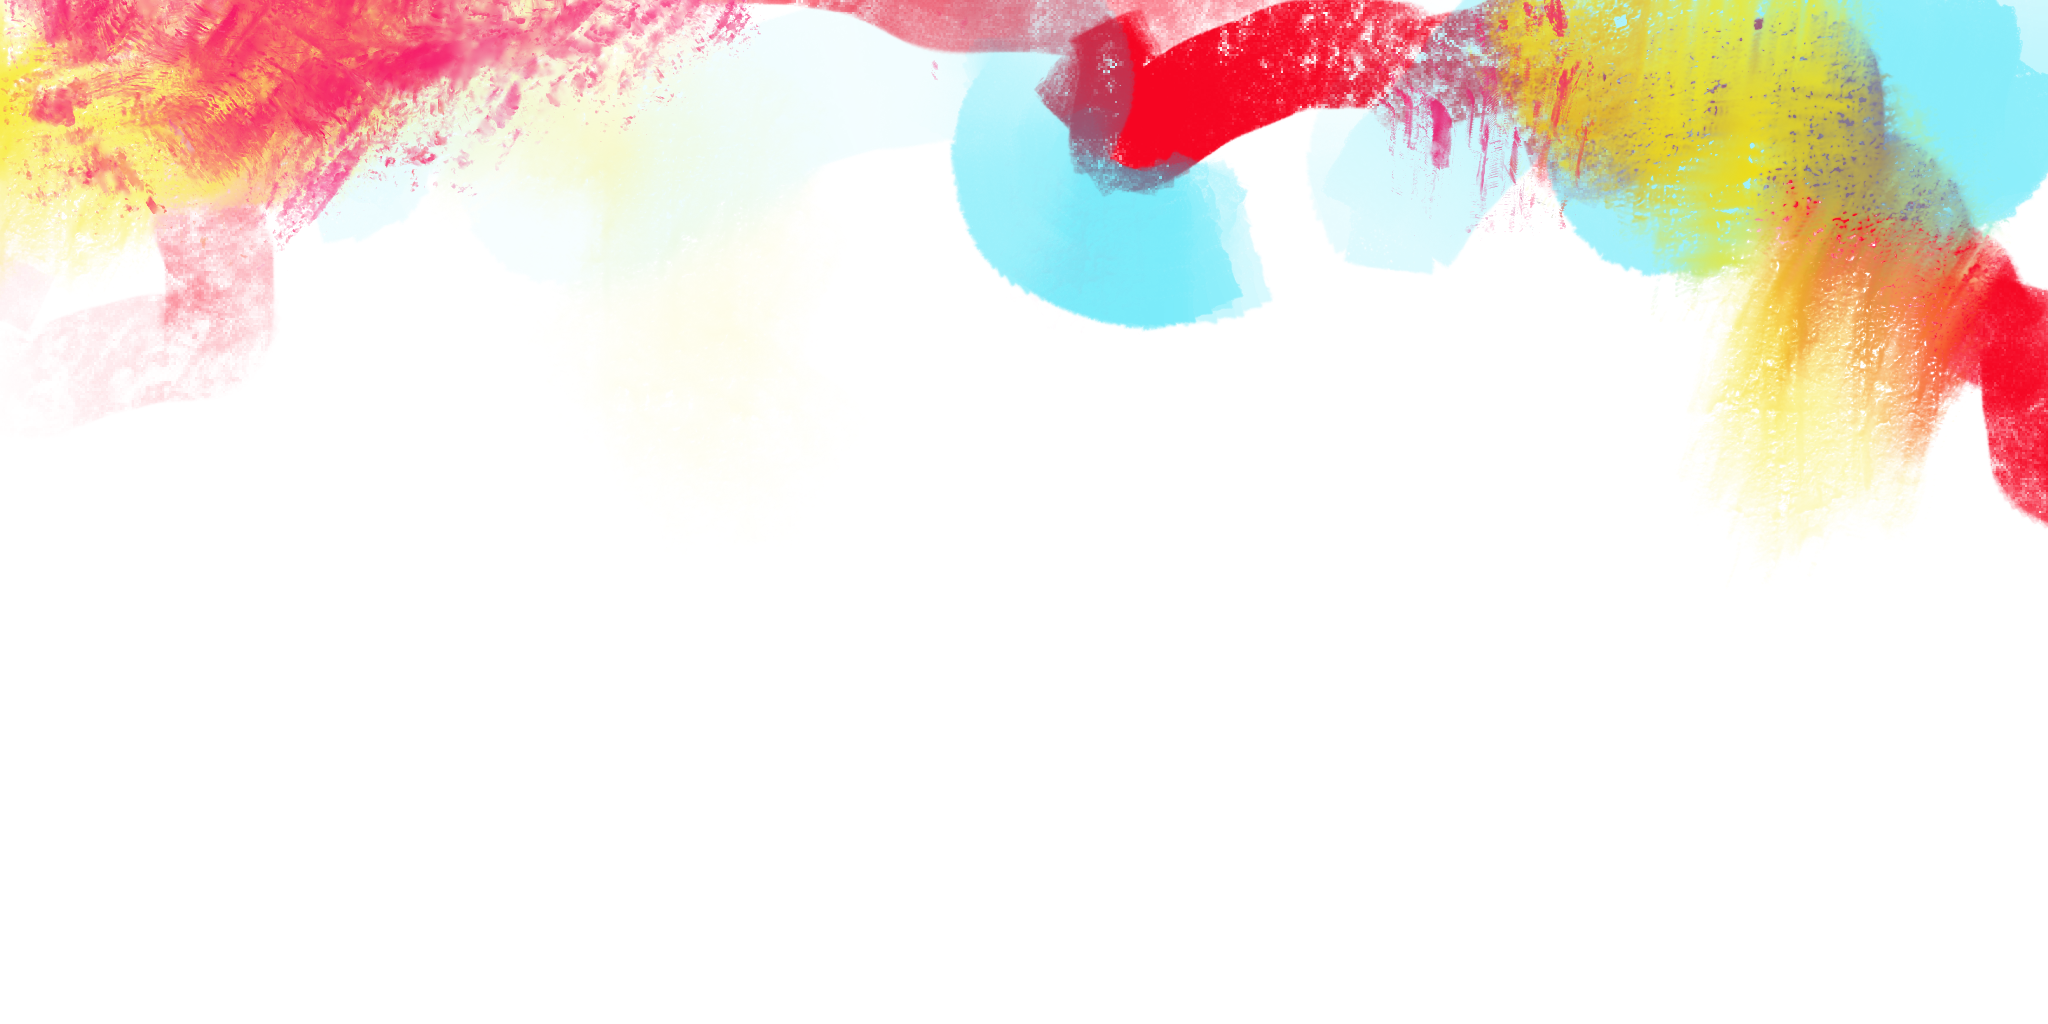
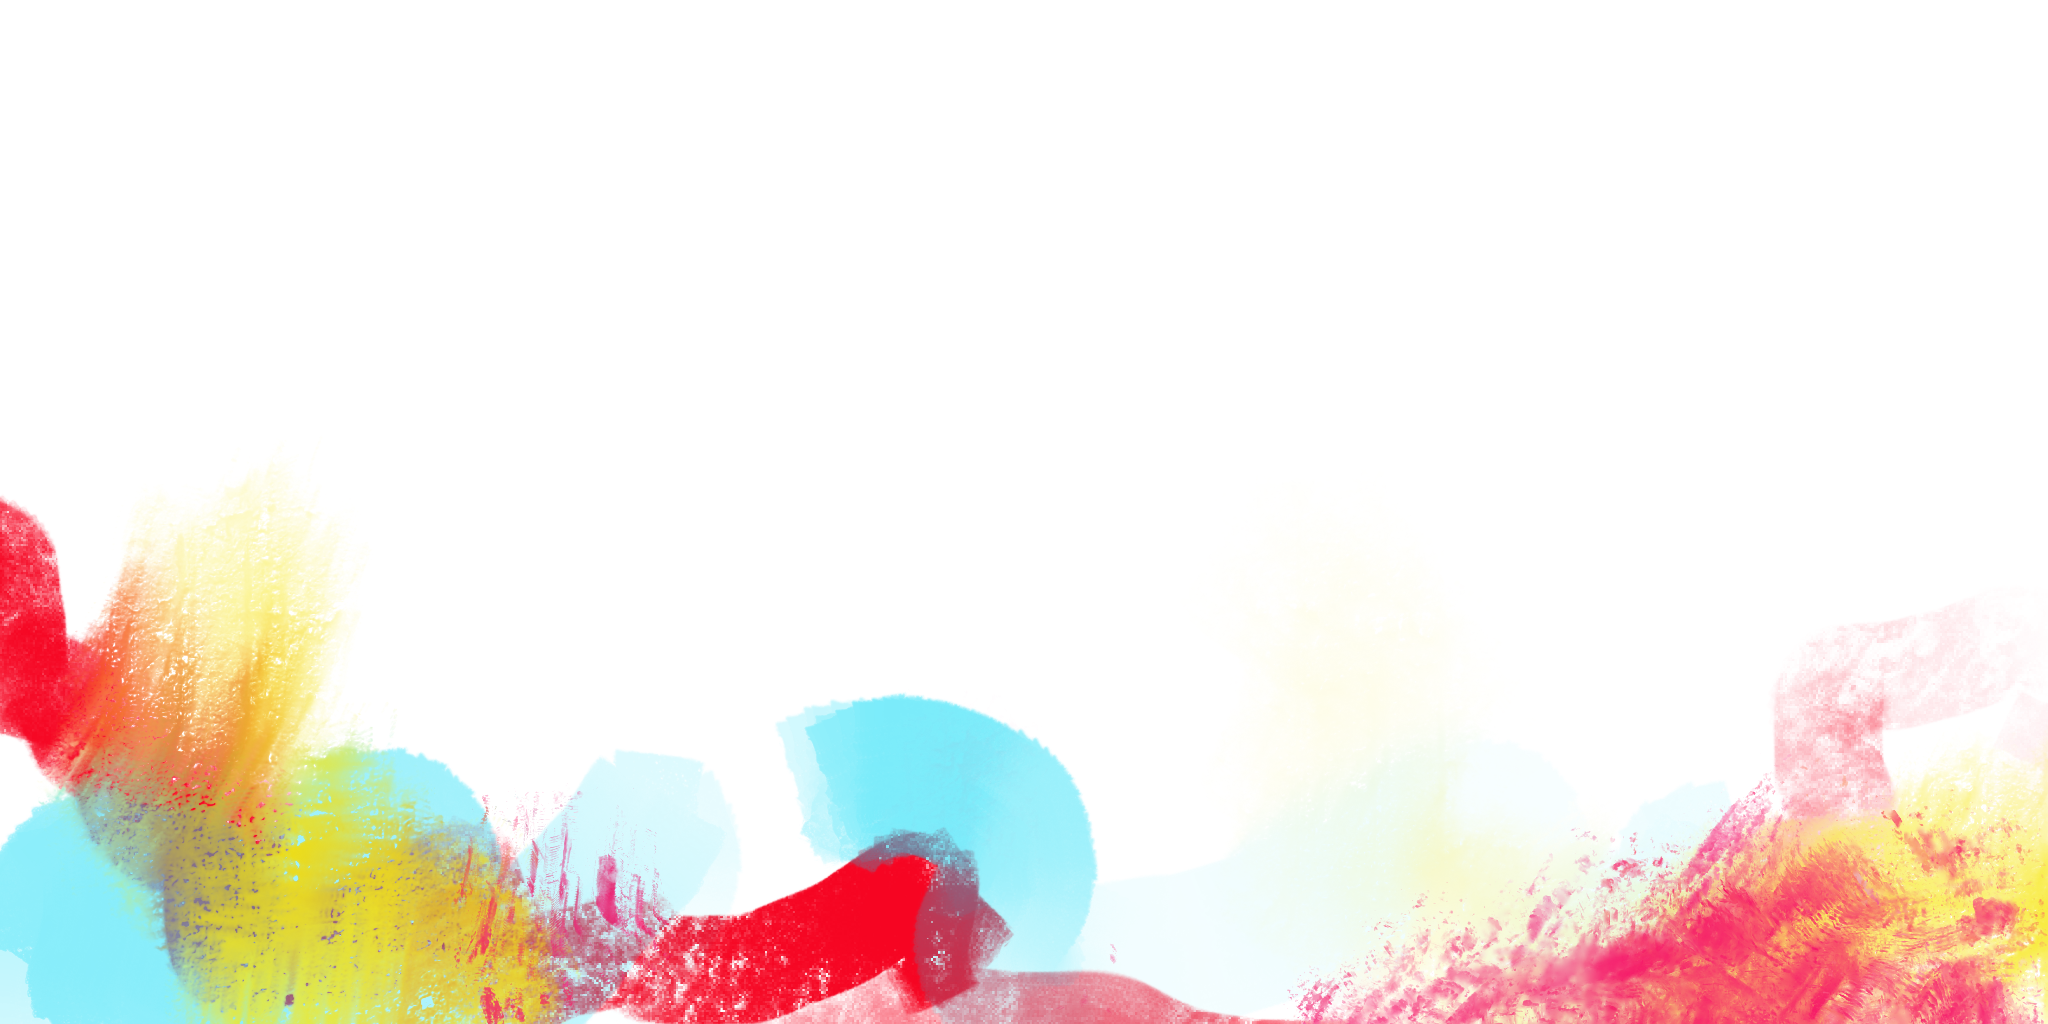
bg image changes

diff --git a/css/creative.min.css b/css/creative.min.css
@@ -2,4 +2,4 @@
  * Start Bootstrap - Creative v5.0.1 (https://startbootstrap.com/template-overviews/creative)
  * Copyright 2013-2018 Start Bootstrap
  * Licensed under MIT (https://github.com/BlackrockDigital/startbootstrap-creative/blob/master/LICENSE)
- */section{background-color:#fff}body,html{width:100%;height:100%}body{font-family:'Josephin Sans','Helvetica Neue',Arial,sans-serif}hr{max-width:50px;border-width:3px;border-color:#fff}hr.light{border-color:#fff}a{color:#fc314e;-webkit-transition:all .2s;transition:all .2s}a:hover{color:#fc304e}h1,h2,h3,h4,h5,h6{font-family:'Josephin Sans','Helvetica Neue',Arial,sans-serif;text-transform:uppercase}h2{font-size:3rem!important}.bg-primary{background-color:#fc314e!important}.bg-dark{background-color:#212529!important}.text-faded{color:rgba(255,255,255,.7)}section{padding:8rem 0}.section-heading{margin-top:0}::-moz-selection{color:#fff;background:#212529;text-shadow:none}::selection{color:#fff;background:#212529;text-shadow:none}img::-moz-selection{color:#fff;background:0 0}img::selection{color:#fff;background:0 0}img::-moz-selection{color:#fff;background:0 0}#contact{padding-top:10rem;padding-bottom:calc(10rem - 56px);background-image:url(../img/footer-test1.png);background-position:center bottom;margin-top:-25px;background-color:#fff}#art{padding-top:10rem;padding-bottom:calc(10rem - 56px);background-image:url(../img/bg_test2.png);background-position:center top;background-size:100%;margin-top:-104px;background-repeat:no-repeat}#design{padding-top:10rem;padding-bottom:calc(10rem - 56px);background-image:url(../img/art2.png);margin-top:-25px;background-size:100% 100%;background-color:#fff;background-repeat:no-repeat}#mainNav{border-bottom:1px solid rgba(33,37,41,.1);background-color:#fff;font-family:'Josephin Sans','Helvetica Neue',Arial,sans-serif;-webkit-transition:all .2s;transition:all .2s}#mainNav .navbar-brand{font-weight:700;text-transform:uppercase;color:#000;font-family:'Josephin Sans','Helvetica Neue',Arial,sans-serif}#mainNav .navbar-brand:focus,#mainNav .navbar-brand:hover{color:#fff}#mainNav .navbar-nav>li.nav-item>a.nav-link,#mainNav .navbar-nav>li.nav-item>a.nav-link:focus{font-size:.9rem;font-weight:700;text-transform:uppercase;color:#212529}#mainNav .navbar-nav>li.nav-item>a.nav-link:focus:hover,#mainNav .navbar-nav>li.nav-item>a.nav-link:hover{color:#fff}#mainNav .navbar-nav>li.nav-item>a.nav-link.active,#mainNav .navbar-nav>li.nav-item>a.nav-link:focus.active{color:#fc314e!important;background-color:transparent}#mainNav .navbar-nav>li.nav-item>a.nav-link.active:hover,#mainNav .navbar-nav>li.nav-item>a.nav-link:focus.active:hover{background-color:transparent}@media (min-width:992px){#mainNav{border-color:transparent;background-color:transparent}#mainNav .navbar-brand{color:rgba(0,0,0,.7)}#mainNav .navbar-brand:focus,#mainNav .navbar-brand:hover{color:#000}#mainNav .navbar-nav>li.nav-item>a.nav-link{padding:.5rem 1rem}#mainNav .navbar-nav>li.nav-item>a.nav-link,#mainNav .navbar-nav>li.nav-item>a.nav-link:focus{color:rgba(0,0,0,.7)}#mainNav .navbar-nav>li.nav-item>a.nav-link:focus:hover,#mainNav .navbar-nav>li.nav-item>a.nav-link:hover{color:#000}#mainNav.navbar-shrink{border-bottom:1px solid rgba(33,37,41,.1);background-color:#fff}#mainNav.navbar-shrink .navbar-brand{color:#fc314e}#mainNav.navbar-shrink .navbar-brand:focus,#mainNav.navbar-shrink .navbar-brand:hover{color:#fc304e}#mainNav.navbar-shrink .navbar-nav>li.nav-item>a.nav-link,#mainNav.navbar-shrink .navbar-nav>li.nav-item>a.nav-link:focus{color:#212529}#mainNav.navbar-shrink .navbar-nav>li.nav-item>a.nav-link:focus:hover,#mainNav.navbar-shrink .navbar-nav>li.nav-item>a.nav-link:hover{color:#fc314e}}header.masthead{padding-top:10rem;padding-bottom:calc(10rem - 56px);background-image:url(../img/bg_test1.png);background-position:center bottom;margin-top:-25px;background-color:#fff;background-size:cover}header.masthead hr{margin-top:30px;margin-bottom:30px}header.masthead h1{font-size:2rem}header.masthead p{font-weight:300}@media (min-width:768px){header.masthead p{font-size:1.15rem}}@media (min-width:992px){header.masthead{height:100vh;min-height:650px;padding-top:0;padding-bottom:0}header.masthead h1{font-size:3rem}}@media (min-width:1200px){header.masthead h1{font-size:4rem}}.service-box{max-width:400px}.portfolio-box{position:relative;display:block;max-width:650px;margin:0 auto}.portfolio-box .portfolio-box-caption{position:absolute;bottom:0;display:block;width:100%;height:100%;text-align:center;opacity:0;color:#fff;background:rgba(252,49,78,.9);-webkit-transition:all .2s;transition:all .2s}.portfolio-box .portfolio-box-caption .portfolio-box-caption-content{position:absolute;top:50%;width:100%;-webkit-transform:translateY(-50%);transform:translateY(-50%);text-align:center}.portfolio-box .portfolio-box-caption .portfolio-box-caption-content .project-category,.portfolio-box .portfolio-box-caption .portfolio-box-caption-content .project-name{padding:0 15px;font-family:'Josephin Sans','Helvetica Neue',Arial,sans-serif}.portfolio-box .portfolio-box-caption .portfolio-box-caption-content .project-category{font-size:14px;font-weight:600;text-transform:uppercase}.portfolio-box .portfolio-box-caption .portfolio-box-caption-content .project-name{font-size:18px}.portfolio-box:hover .portfolio-box-caption{opacity:1}.portfolio-box:focus{outline:0}@media (min-width:768px){.portfolio-box .portfolio-box-caption .portfolio-box-caption-content .project-category{font-size:16px}.portfolio-box .portfolio-box-caption .portfolio-box-caption-content .project-name{font-size:22px}}.link-wrapper{width:163px;text-transform:uppercase;margin:4px auto;text-align:center;font-family:'Josephin Sans','Helvetica Neue',Arial,sans-serif}.external_link{color:#000;font-weight:900}.external_link:hover{color:#fc314e;text-decoration:none}.text-primary{color:#fc314e!important}.btn{font-weight:700;text-transform:uppercase;border:none;border-radius:300px;font-family:'Josephin Sans','Helvetica Neue',Arial,sans-serif}.btn-xl{padding:1rem 2rem}.btn-primary{background-color:#fc314e;border-color:#fc314e}.btn-primary:active,.btn-primary:focus,.btn-primary:hover{color:#fff;background-color:#fc1838!important}.btn-primary:active,.btn-primary:focus{-webkit-box-shadow:0 0 0 .2rem rgba(240,95,64,.5)!important;box-shadow:0 0 0 .2rem rgba(240,95,64,.5)!important}
+ */section{background-color:#fff}body,html{width:100%;height:100%}body{font-family:'Josephin Sans','Helvetica Neue',Arial,sans-serif}hr{max-width:50px;border-width:3px;border-color:#fff}hr.light{border-color:#fff}a{color:#fc314e;-webkit-transition:all .2s;transition:all .2s}a:hover{color:#fc304e}h1,h2,h3,h4,h5,h6{font-family:'Josephin Sans','Helvetica Neue',Arial,sans-serif;text-transform:uppercase}h2{font-size:3rem!important}.bg-primary{background-color:#fc314e!important}.bg-dark{background-color:#212529!important}.text-faded{color:rgba(255,255,255,.7)}section{padding:8rem 0}.section-heading{margin-top:0}::-moz-selection{color:#fff;background:#212529;text-shadow:none}::selection{color:#fff;background:#212529;text-shadow:none}img::-moz-selection{color:#fff;background:0 0}img::selection{color:#fff;background:0 0}img::-moz-selection{color:#fff;background:0 0}#contact{padding-top:10rem;padding-bottom:calc(10rem - 56px);background-image:url(../img/contact1_bg.png);margin-top:-100px;background-position:center bottom;background-color:#fff}#art{padding-top:15rem;padding-bottom:calc(10rem - 56px);background-image:url(../img/bg_test2.png);background-position:center top;background-size:100%;margin-top:-104px;background-repeat:no-repeat}#design{padding-top:10rem;padding-bottom:calc(10rem - 56px);background-image:url(../img/design3.png);margin-top:-25px;background-size:100% 100%;background-color:#fff;background-repeat:no-repeat}#mainNav{border-bottom:1px solid rgba(33,37,41,.1);background-color:#fff;font-family:'Josephin Sans','Helvetica Neue',Arial,sans-serif;-webkit-transition:all .2s;transition:all .2s}#mainNav .navbar-brand{font-weight:700;text-transform:uppercase;color:#000;font-family:'Josephin Sans','Helvetica Neue',Arial,sans-serif}#mainNav .navbar-brand:focus,#mainNav .navbar-brand:hover{color:#212529}#mainNav .navbar-nav>li.nav-item>a.nav-link,#mainNav .navbar-nav>li.nav-item>a.nav-link:focus{font-size:.9rem;font-weight:700;text-transform:uppercase;color:#212529}#mainNav .navbar-nav>li.nav-item>a.nav-link:focus:hover,#mainNav .navbar-nav>li.nav-item>a.nav-link:hover{color:#212529}#mainNav .navbar-nav>li.nav-item>a.nav-link.active,#mainNav .navbar-nav>li.nav-item>a.nav-link:focus.active{color:#fc314e!important;background-color:transparent}#mainNav .navbar-nav>li.nav-item>a.nav-link.active:hover,#mainNav .navbar-nav>li.nav-item>a.nav-link:focus.active:hover{background-color:transparent}@media (min-width:992px){#mainNav{border-color:transparent;background-color:transparent}#mainNav .navbar-brand{color:rgba(0,0,0,.7)}#mainNav .navbar-brand:focus,#mainNav .navbar-brand:hover{color:#000}#mainNav .navbar-nav>li.nav-item>a.nav-link{padding:.5rem 1rem}#mainNav .navbar-nav>li.nav-item>a.nav-link,#mainNav .navbar-nav>li.nav-item>a.nav-link:focus{color:rgba(0,0,0,.7)}#mainNav .navbar-nav>li.nav-item>a.nav-link:focus:hover,#mainNav .navbar-nav>li.nav-item>a.nav-link:hover{color:#000}#mainNav.navbar-shrink{border-bottom:1px solid rgba(33,37,41,.1);background-color:#fff}#mainNav.navbar-shrink .navbar-brand{color:#fc314e}#mainNav.navbar-shrink .navbar-brand:focus,#mainNav.navbar-shrink .navbar-brand:hover{color:#fc304e}#mainNav.navbar-shrink .navbar-nav>li.nav-item>a.nav-link,#mainNav.navbar-shrink .navbar-nav>li.nav-item>a.nav-link:focus{color:#212529}#mainNav.navbar-shrink .navbar-nav>li.nav-item>a.nav-link:focus:hover,#mainNav.navbar-shrink .navbar-nav>li.nav-item>a.nav-link:hover{color:#fc314e}}header.masthead{padding-top:10rem;padding-bottom:calc(10rem - 56px);background-image:url(../img/header2.png);background-position:center bottom;margin-top:-25px;background-color:#fff;background-size:cover}header.masthead hr{margin-top:30px;margin-bottom:30px}header.masthead h1{font-size:2rem}header.masthead p{font-weight:300}@media (min-width:768px){header.masthead p{font-size:1.15rem}}@media (min-width:992px){header.masthead{height:100vh;min-height:650px;padding-top:0;padding-bottom:0}header.masthead h1{font-size:3rem}}@media (min-width:1200px){header.masthead h1{font-size:4rem}}.service-box{max-width:400px}.portfolio-box{position:relative;display:block;max-width:650px;margin:0 auto}.portfolio-box .portfolio-box-caption{position:absolute;bottom:0;display:block;width:100%;height:100%;text-align:center;opacity:0;color:#fff;background:rgba(252,49,78,.9);-webkit-transition:all .2s;transition:all .2s}.portfolio-box .portfolio-box-caption .portfolio-box-caption-content{position:absolute;top:50%;width:100%;-webkit-transform:translateY(-50%);transform:translateY(-50%);text-align:center}.portfolio-box .portfolio-box-caption .portfolio-box-caption-content .project-category,.portfolio-box .portfolio-box-caption .portfolio-box-caption-content .project-name{padding:0 15px;font-family:'Josephin Sans','Helvetica Neue',Arial,sans-serif}.portfolio-box .portfolio-box-caption .portfolio-box-caption-content .project-category{font-size:14px;font-weight:600;text-transform:uppercase}.portfolio-box .portfolio-box-caption .portfolio-box-caption-content .project-name{font-size:18px}.portfolio-box:hover .portfolio-box-caption{opacity:1}.portfolio-box:focus{outline:0}@media (min-width:768px){.portfolio-box .portfolio-box-caption .portfolio-box-caption-content .project-category{font-size:16px}.portfolio-box .portfolio-box-caption .portfolio-box-caption-content .project-name{font-size:22px}}.link-wrapper{width:163px;text-transform:uppercase;margin:4px auto;text-align:center;font-family:'Josephin Sans','Helvetica Neue',Arial,sans-serif}.external_link{color:#000;font-weight:900}.external_link:hover{color:#fc314e;text-decoration:none}.text-primary{color:#fc314e!important}.btn{font-weight:700;text-transform:uppercase;border:none;border-radius:300px;font-family:'Josephin Sans','Helvetica Neue',Arial,sans-serif}.btn-xl{padding:1rem 2rem}.btn-primary{background-color:#fc314e;border-color:#fc314e}.btn-primary:active,.btn-primary:focus,.btn-primary:hover{color:#fff;background-color:#fc1838!important}.btn-primary:active,.btn-primary:focus{-webkit-box-shadow:0 0 0 .2rem rgba(240,95,64,.5)!important;box-shadow:0 0 0 .2rem rgba(240,95,64,.5)!important}

diff --git a/index.html b/index.html
@@ -67,7 +67,7 @@
             <h1 class="text-uppercase">
               <strong>Qu inl    an   <br> D eer</strong>
             </h1>
-            <hr>
+            <br>
           </div>
           <div class="col-lg-8 mx-auto">
               <h3 class="text-uppercase">
@@ -84,7 +84,7 @@
         <div class="row">
           <div class="col-lg-12 text-center">
             <h2 class="section-heading">Strong_suits</h2>
-            <hr class="my-4">
+          
           </div>
         </div>
       </div>
@@ -108,14 +108,14 @@
             <div class="service-box mt-5 mx-auto">
               <i class="fas fa-4x fa-code text-primary mb-3 sr-icon-3"></i>
               <h4 class="mb-3">Front_end coding</h4>
-              <p class="mb-0">Highly skilled in HTML, CSS, Javascript, ReactJS, PHP (for wordpress), and building site with bootstrap!</p>
+              <p class="mb-0">Highly skilled in HTML, CSS, Javascript, ReactJS, PHP (for wordpress), and building websites with bootstrap templates... like this one ;)! </p>
             </div>
           </div>
           <div class="col-lg-3 col-md-6 text-center">
             <div class="service-box mt-5 mx-auto">
               <i class="fas fa-4x fa-heart text-primary mb-3 sr-icon-4"></i>
               <h4 class="mb-3">Positivity_:)</h4>
-              <p class="mb-0">I love what I do, and I take great pride in my work. All art and design is made with love.</p>
+              <p class="mb-0">I love what I do, and I take great pride in my work. All art and design is made with love by yours truly.</p>
             </div>
           </div>
         </div>
@@ -127,7 +127,7 @@
             <div class="row">
                 <div class="col-lg-12 text-center">
                   <h2 class="section-heading">De_sign</h2>
-                  <hr class="my-4">
+                 
                 </div>
               </div>
           <div class="row no-gutters popup-gallery">
@@ -240,7 +240,7 @@
           <div class="row">
               <div class="col-lg-12 text-center">
                 <h2 class="section-heading">A__rt</h2>
-                <hr class="my-4">
+              
               </div>
             </div>
         <div class="row no-gutters popup-gallery">
@@ -437,7 +437,7 @@
         <div class="row">
           <div class="col-lg-8 mx-auto text-center">
             <h2 class="section-heading">Let_s chat</h2>
-            <hr class="my-4">
+          
             <p class="mb-5"></p>
           </div>
         </div>

diff --git a/css/creative.css b/css/creative.css
@@ -102,14 +102,14 @@ img::-moz-selection {
 #contact {
   padding-top: 10rem;
   padding-bottom: calc(10rem - 56px);
-  background-image: url("../img/footer-test1.png");
+  background-image: url("../img/contact1_bg.png");
+  margin-top: -100px;
   background-position: center bottom;
-  margin-top: -25px;
   background-color: #fff;
 }
 
 #art {
-  padding-top: 10rem;
+  padding-top: 15rem;
   padding-bottom: calc(10rem - 56px);
   background-image: url("../img/bg_test2.png");
   background-position: center top;
@@ -121,7 +121,7 @@ img::-moz-selection {
 #design {
   padding-top: 10rem;
   padding-bottom: calc(10rem - 56px);
-  background-image: url("../img/art2.png");
+  background-image: url("../img/design3.png");
   margin-top: -25px;
   background-size: 100% 100%;
   background-color: #fff;
@@ -144,7 +144,7 @@ img::-moz-selection {
 }
 
 #mainNav .navbar-brand:focus, #mainNav .navbar-brand:hover {
-  color: white;
+  color: #212529;
 }
 
 #mainNav .navbar-nav > li.nav-item > a.nav-link,
@@ -157,7 +157,7 @@ img::-moz-selection {
 
 #mainNav .navbar-nav > li.nav-item > a.nav-link:hover,
 #mainNav .navbar-nav > li.nav-item > a.nav-link:focus:hover {
-  color: #fff;
+  color: #212529;
 }
 
 #mainNav .navbar-nav > li.nav-item > a.nav-link.active,
@@ -216,7 +216,7 @@ img::-moz-selection {
 header.masthead {
   padding-top: 10rem;
   padding-bottom: calc(10rem - 56px);
-  background-image: url("../img/bg_test1.png");
+  background-image: url("../img/header2.png");
   background-position: center bottom;
   margin-top: -25px;
   background-color: #fff;

diff --git a/scss/_global.scss b/scss/_global.scss
@@ -86,16 +86,17 @@ img::-moz-selection {
 #contact {
   padding-top: 10rem;
   padding-bottom: calc(10rem - 56px);
-  background-image: url('../img/footer-test1.png');
+  background-image: url('../img/contact1_bg.png');
+  margin-top: -100px;
   background-position: center bottom;
-  margin-top: -25px;
+
   background-color: $white;
 
 }
 
 #art {
  
-      padding-top: 10rem;
+      padding-top: 15rem;
   padding-bottom: calc(10rem - 56px);
   background-image: url('../img/bg_test2.png');
   background-position: center top;
@@ -109,7 +110,7 @@ img::-moz-selection {
 
   padding-top: 10rem;
   padding-bottom: calc(10rem - 56px);
-  background-image: url('../img/art2.png');
+  background-image: url('../img/design3.png');
   
   margin-top: -25px;
   background-size: 100% 100%;

diff --git a/scss/_masthead.scss b/scss/_masthead.scss
@@ -2,7 +2,7 @@
 header.masthead {
   padding-top: 10rem;
   padding-bottom: calc(10rem - 56px);
-  background-image: url('../img/bg_test1.png');
+  background-image: url('../img/header2.png');
   background-position: center bottom;
   margin-top: -25px;
   background-color: $white;

diff --git a/scss/_navbar.scss b/scss/_navbar.scss
@@ -23,7 +23,7 @@
         text-transform: uppercase;
         color: $gray-900;
         &:hover {
-          color: $grey-900;
+          color: $gray-900;
         }
         &.active {
           color: $primary !important;
